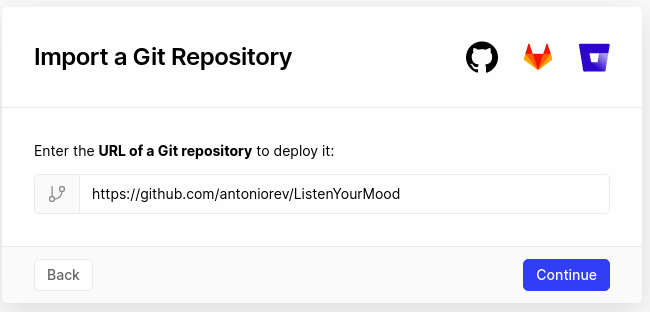
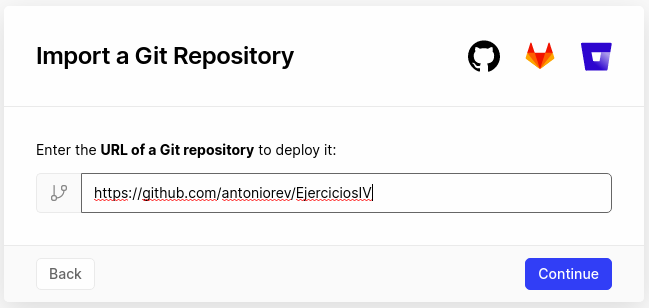
Añadidos ejercicios

diff --git a/Milestone5/Ejercicio1.md b/Milestone5/Ejercicio1.md
@@ -1,8 +1,22 @@
 ## Ejercicio 1
-Nos vamos a la [web de Vercel](https://vercel.com/) y nos registramos. Escogemos registrarnos con GitHub y tendremos que otorgarle permisos a Vercel:
+Primero que todo, tenemos que registrarnos en la página web de [Vercel](https://vercel.com/). Escogeremos registrarnos con GitHub y le otorgaremos permisos:
 
-![Permisos Vercel](https://github.com/antoniorev/EjerciciosIV/blob/main/Milestone5/images/permisosVercel.png)
+![Permisos Vercel](images/permisosVercel.png)
 
-Ahora importaremos nuestro repositorio:
+Después de esto, escogeremos nuestro directorio para importar:
 
+![Importar Vercel](images/importarVercel.png)
 
+Pulsamos en continuar, y escogemos la carpeta donde se encuentre el fichero que queremos que se ejecute con cada petición que ocurra:
+
+![carpeta Vercel](images/carpetaImportacionVercel.png)
+
+Es conveniente (como forma de buenas prácticas) que la carpeta donde se encuentre el fichero a ejecutar se llame *api*.
+
+Escogemos a su vez si queremos añadirle un framework, alguna instrucción de construcción, o cambiar alguna variable de entorno (nosotros lo hemos dejado sin tocar)
+
+![Ajustes Vercel](images/ajustesImportacionVercel.png)
+
+Y cuando pulsemos en Deploy se desplegará nuestra aplicación:
+
+![Final Configuracion Vercel](images/finalConfiguracionVercel.png)
